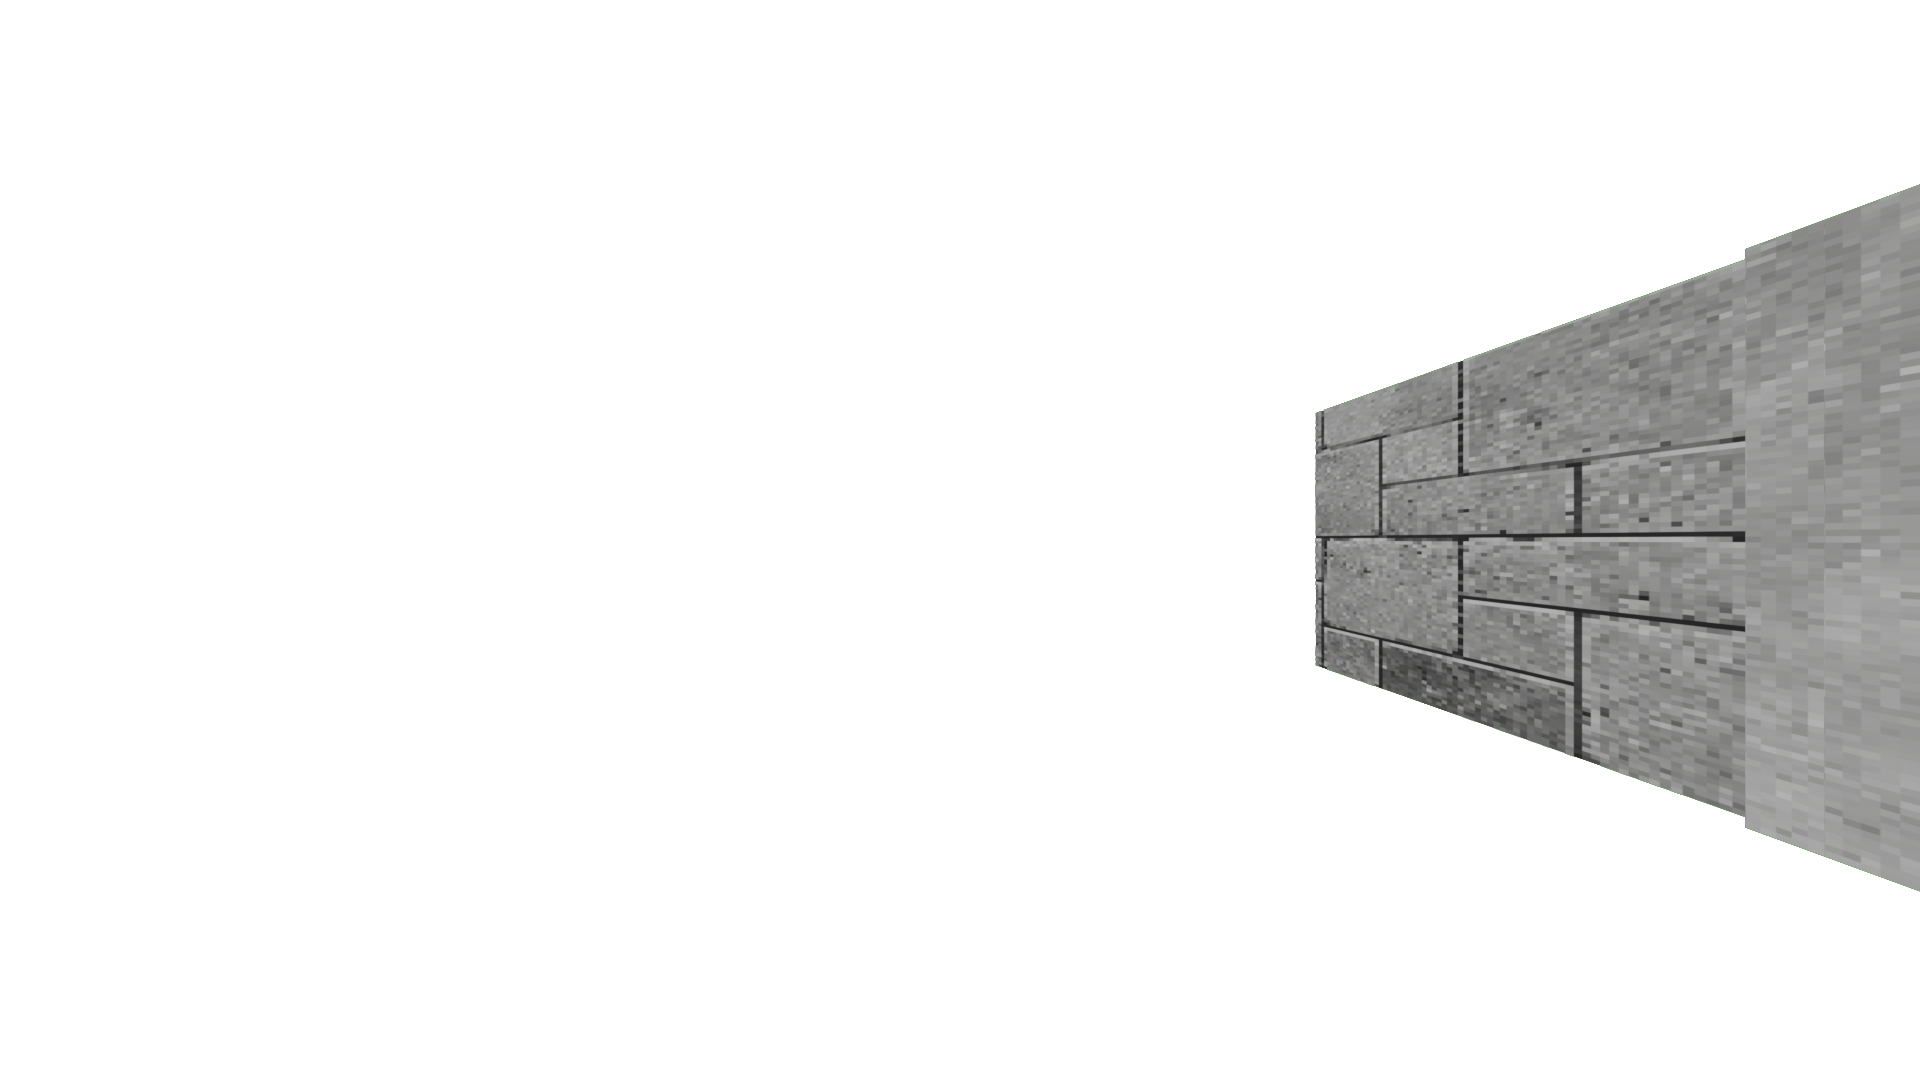
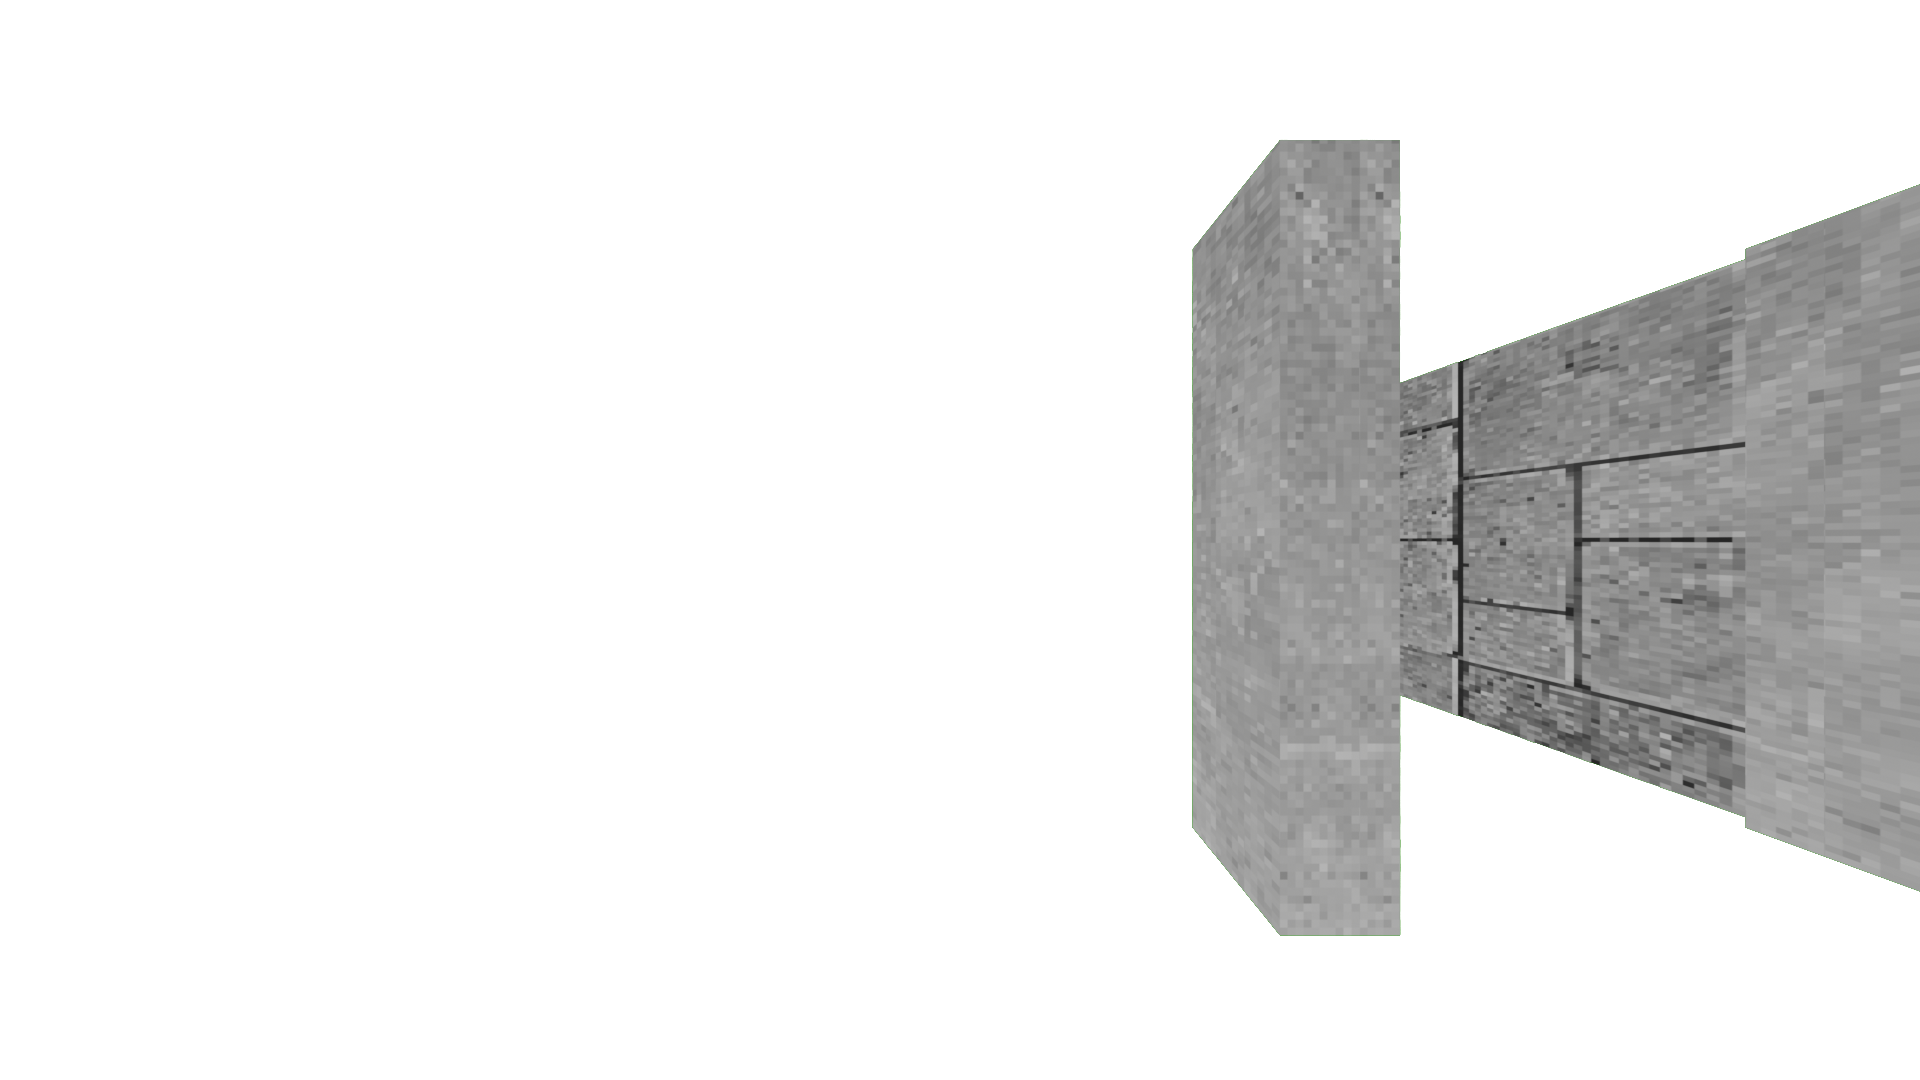
ahhh

Changed region(s): [[0.5938, 0.1222, 0.9062, 0.8861]]

diff --git a/visual/game.py b/visual/game.py
@@ -17,11 +17,11 @@ class player:
         self.facing = facing
         self.maze = maze
 
-    def view(self, max_depth =3):
+    def view(self, max_depth =4):
         view = []
 
         for depth in range(1, max_depth + 1):
-            pos = cells_around(self, 0, 0, depth)
+            pos = cells_around(self, 0, 0, depth-1)
 
             front = self.get_wall(pos, facing_to_bit(self, "F"))
             right = self.get_wall(pos, facing_to_bit(self, "R"))
@@ -48,14 +48,24 @@ class player:
          
     def move(self, window):
         x, y = cells_around(self, 0, 0, 1)
+        print(f"X={x} Y={y}")
         if self.is_valid((x, y)):
             self.X = x
             self.Y = y
-            mlx.mlx_clear_window(ptr, window)
             tmp_name(self, window)
             print(self.X, self.Y)
         else:
-            print(test)
+            print("test")
+
+    def turn_left(self):
+        order = ['N', 'W', 'S', 'E']
+        self.facing = order[(order.index(self.facing) + 1) % 4]
+
+    def turn_right(self):
+        order = ['N', 'E', 'S', 'W']
+        self.facing = order[(order.index(self.facing) + 1) % 4]
+
+        
 
             
             
@@ -63,8 +73,9 @@ class player:
 
 def tmp_name(p, window):
     view = p.view()
+    mlx.mlx_clear_window(ptr, window)
     mlx.mlx_put_image_to_window(ptr, window, get_image("images/floor and ceiling.png"), 0, 0)
-    print(f"view: {view}\n p {p.maze[p.Y][p.X]}")  
+    print(f"view: {view}\t p {p.maze[p.Y][p.X]}\t{p.facing}")
     for depth in reversed(range(len(view))):
         left, front, right = view[depth]
         print(f"depth={depth} left={left} front={front} right={right}") 
@@ -72,27 +83,41 @@ def tmp_name(p, window):
         draw_right_wall(p, depth+1, window, wall=right)
         if front:
             draw_front(depth+1, window)
+        elif depth == 2:
+            mlx.mlx_put_image_to_window(ptr, window, get_image( "images2/FNoWall3.png"), 0, 0)
 
 def draw_front(depth, window):
     if depth == 3:
         mlx.mlx_put_image_to_window(ptr, window, get_image( "images/FWall3.png"), 0, 0)
         print("Fwall3")
-    if depth == 2:
+    elif depth == 2:
         mlx.mlx_put_image_to_window(ptr, window, get_image( "images/FWall2.png"), 0, 0)
-    if depth == 1: 
+    elif depth == 1: 
         mlx.mlx_put_image_to_window(ptr, window, get_image("images/FWall1.png"), 0, 0)
         print("Fwall1")
+    
+    
 
-def draw_left_wall(p, depth, window, max_depth = 3, wall = True):
+def draw_left_wall(p, depth, window, max_depth = 4, wall = True):
     if depth == 3:
         if wall:
-            pass
-    if depth == 2:
+            mlx.mlx_put_image_to_window(ptr, window, get_image("images/LWall3.png"), 0, 0)
+    elif depth == 2:
         if wall:
             mlx.mlx_put_image_to_window(ptr, window, get_image("images/LWall2.png"), 0, 0)
-    if depth == 1:
+        else:
+            if p.get_wall(cells_around(p, 1, 0, 1), facing_to_bit(p, "F")):
+                mlx.mlx_put_image_to_window(ptr, window, get_image("images/FWall-1 2.png"), 0, 0)
+    elif depth == 1:
         if wall:
             mlx.mlx_put_image_to_window(ptr, window, get_image("images/LWall1.png"), 0, 0)
+        else:
+            if p.get_wall(cells_around(p, 1, 0, 0), facing_to_bit(p, "F")):
+                mlx.mlx_put_image_to_window(ptr, window, get_image("images/FWall-1 1.png"), 0, 0)
+            elif p.get_wall(cells_around(p, 1, 0, 1), facing_to_bit(p, "L")):
+                    mlx.mlx_put_image_to_window(ptr, window, get_image("images/LWall-1 2.png"), 0, 0)
+
+
     # if not wall:
     #     if depth < max_depth:
     #         if depth + 1 < max_depth:
@@ -107,7 +132,7 @@ def draw_left_wall(p, depth, window, max_depth = 3, wall = True):
 def draw_right_wall(p, depth, window, max_depth=3, wall=True):
     if depth == 3:
         if wall:
-            pass
+            mlx.mlx_put_image_to_window(ptr, window, get_image("images/RWall3.png"), 0, 0)
     if depth == 2:
         if wall:
             mlx.mlx_put_image_to_window(ptr, window, get_image("images/RWall2.png"), 0, 0)
@@ -121,12 +146,12 @@ def draw_right_wall(p, depth, window, max_depth=3, wall=True):
             if p.get_wall(cells_around(p, 0, 1, 0), facing_to_bit(p, "F")):
                 mlx.mlx_put_image_to_window(ptr, window, get_image("images/FWall+1 1.png"), 0, 0)
             elif p.get_wall(cells_around(p, 0, 1, 1), facing_to_bit(p, "R")):
-                    mlx.mlx_put_image_to_window(ptr, window, get_image("images/RWall+1_2.png"), 0, 0)
+                    mlx.mlx_put_image_to_window(ptr, window, get_image("images/RWall+1 2.png"), 0, 0)
 def cells_around(p, to_L, to_R, to_F):
     if p.facing == 'N':
-        return (p.X + to_R - to_L, p.Y + to_F)
+        return (p.X + to_R - to_L, p.Y - to_F)
     if p.facing == 'S':
-        return (p.X + to_L - to_R, p.Y - to_F)
+        return (p.X + to_L - to_R, p.Y + to_F)
     if p.facing == 'E':
         return (p.X + to_F, p.Y + to_L - to_R)
     if p.facing == 'W':
@@ -142,7 +167,7 @@ def facing_to_bit(p, side):
     return mapping[p.facing][side]
     
 
-def render_3d(maze, X=0, Y=0, facing="N"):
+def render_3d(maze, X=1, Y=8, facing="N"):
     p = player(Y, X, facing, maze)
 
     window = mlx.mlx_new_window(ptr, 1920, 1080, "test")
@@ -152,6 +177,12 @@ def render_3d(maze, X=0, Y=0, facing="N"):
             mlx.mlx_loop_exit(ptr)
         if keynum == KEY_W:
             p.move(window)
+        if keynum == KEY_A:
+            p.turn_left()
+            tmp_name(p, window)
+        if keynum == KEY_D:
+            p.turn_right()
+            tmp_name(p, window)
 
     mlx.mlx_key_hook(window, on_key, None)
     tmp_name(p, window)
